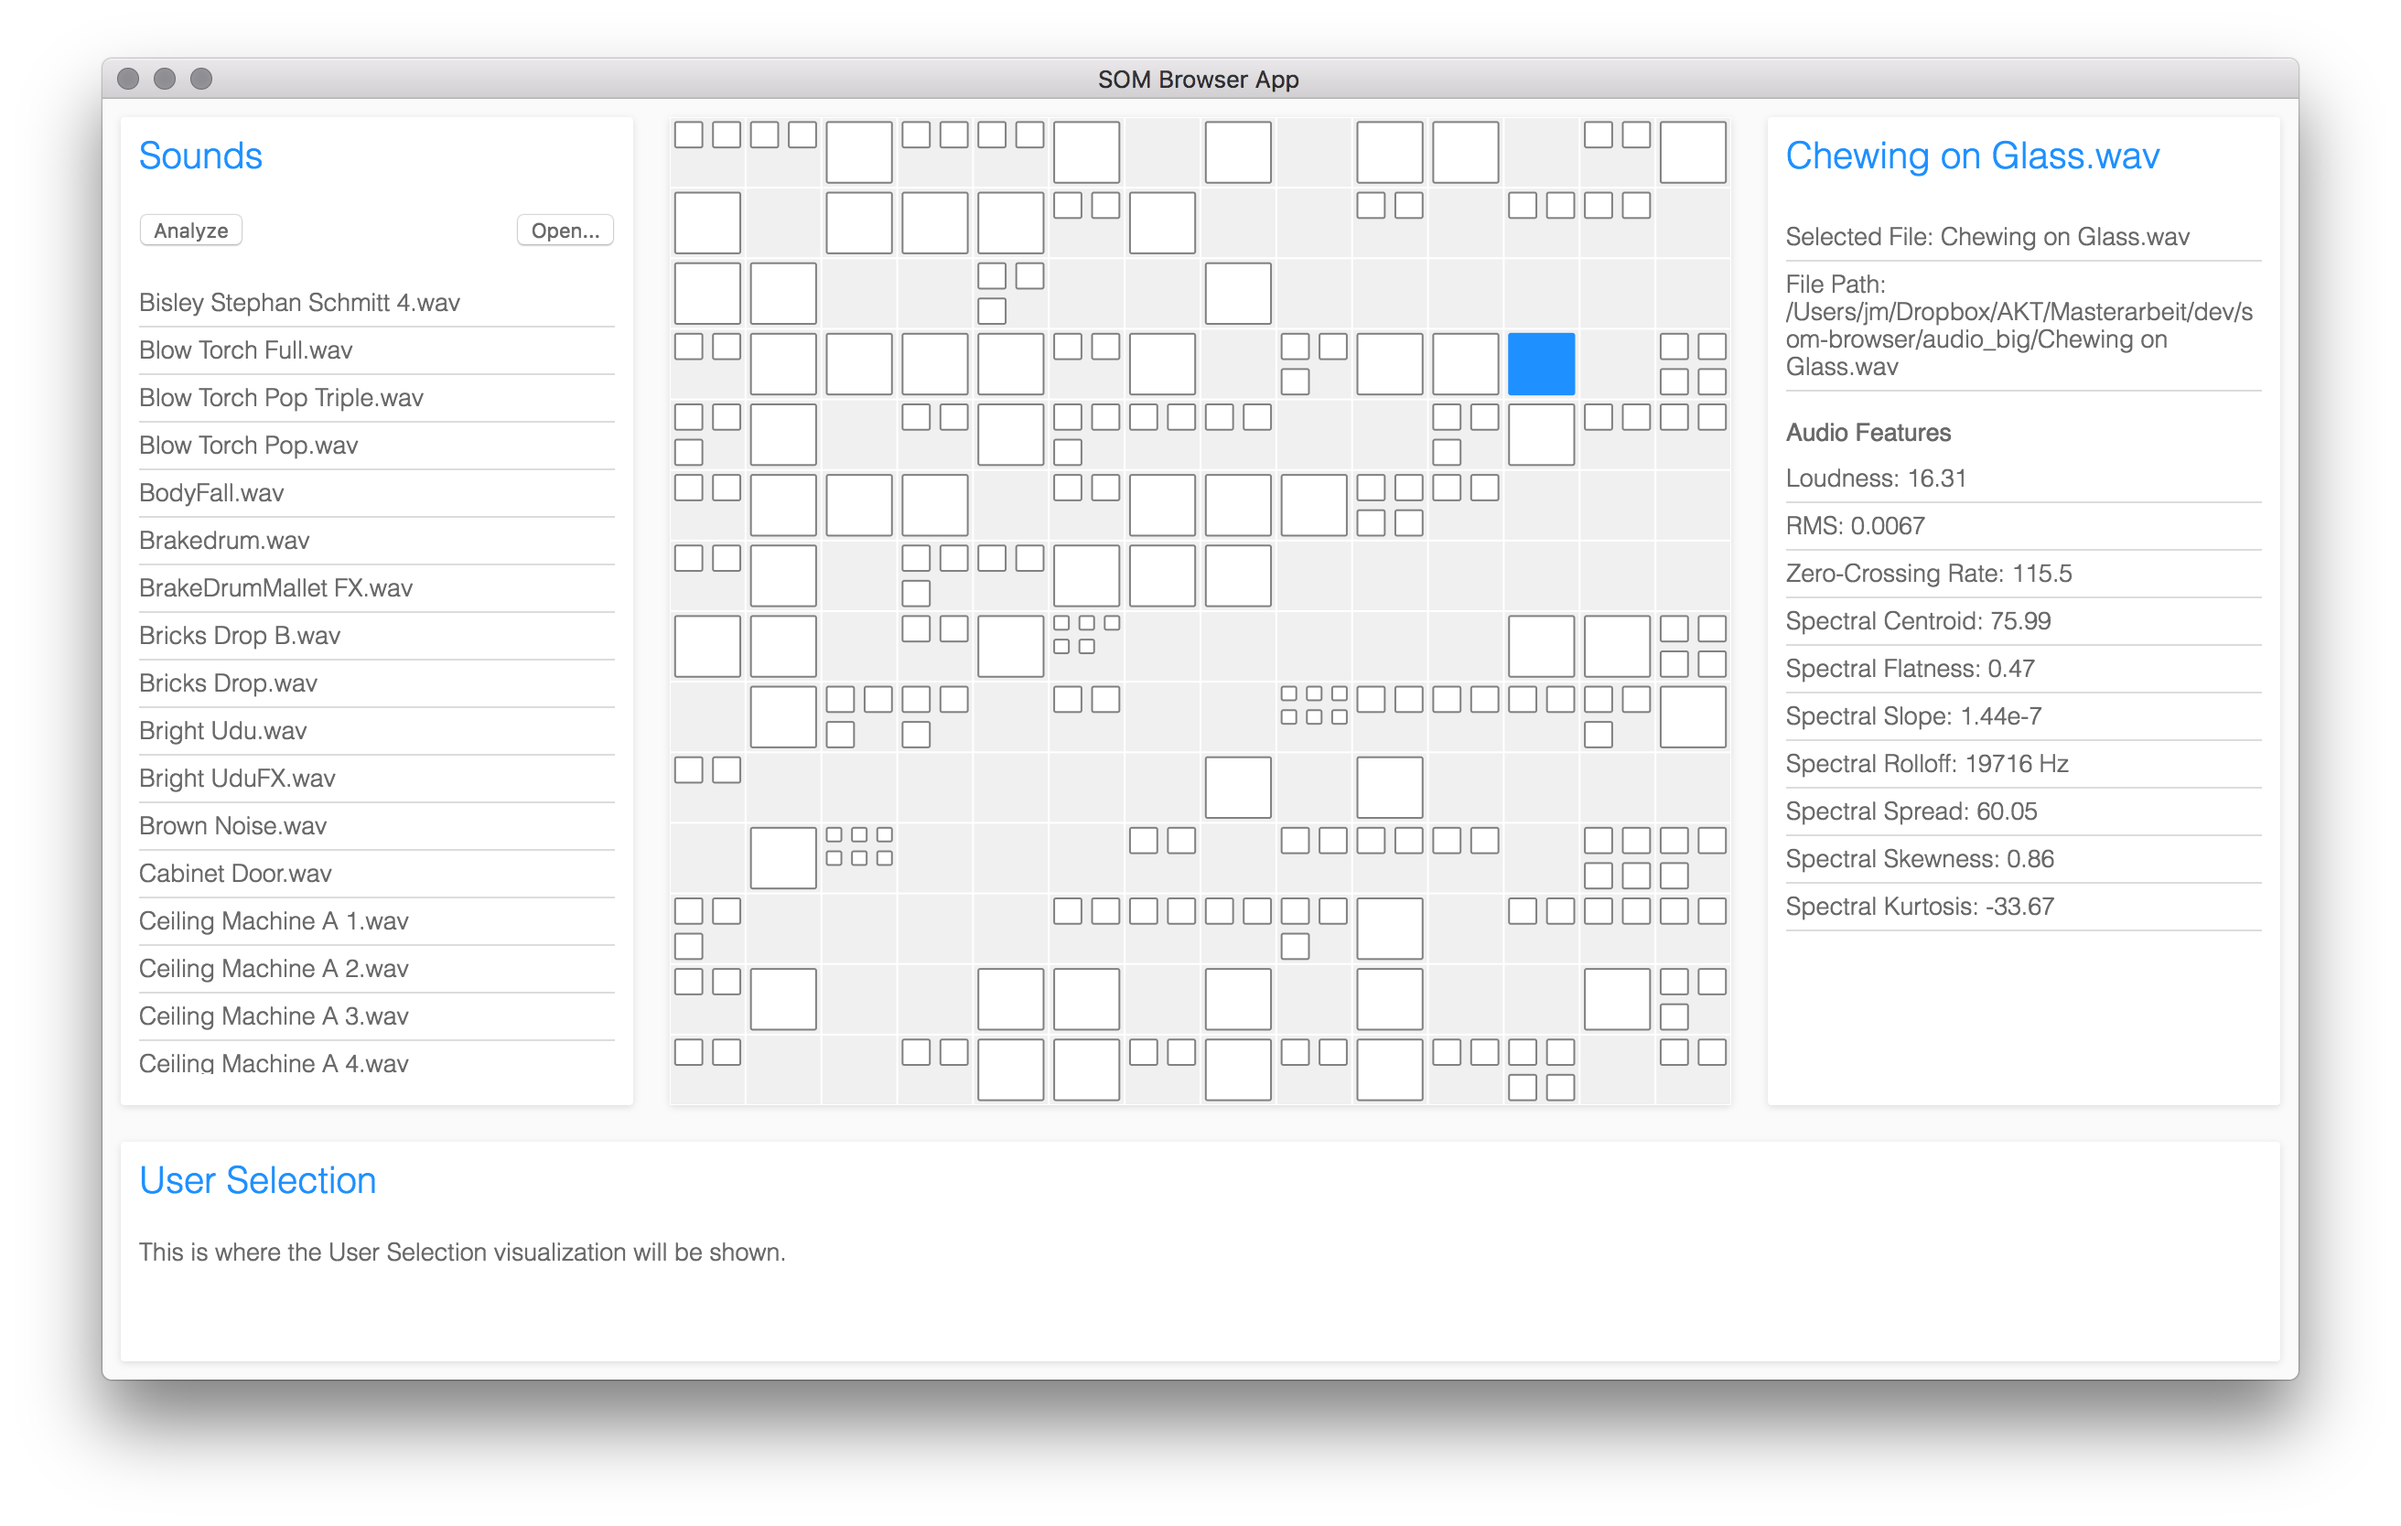
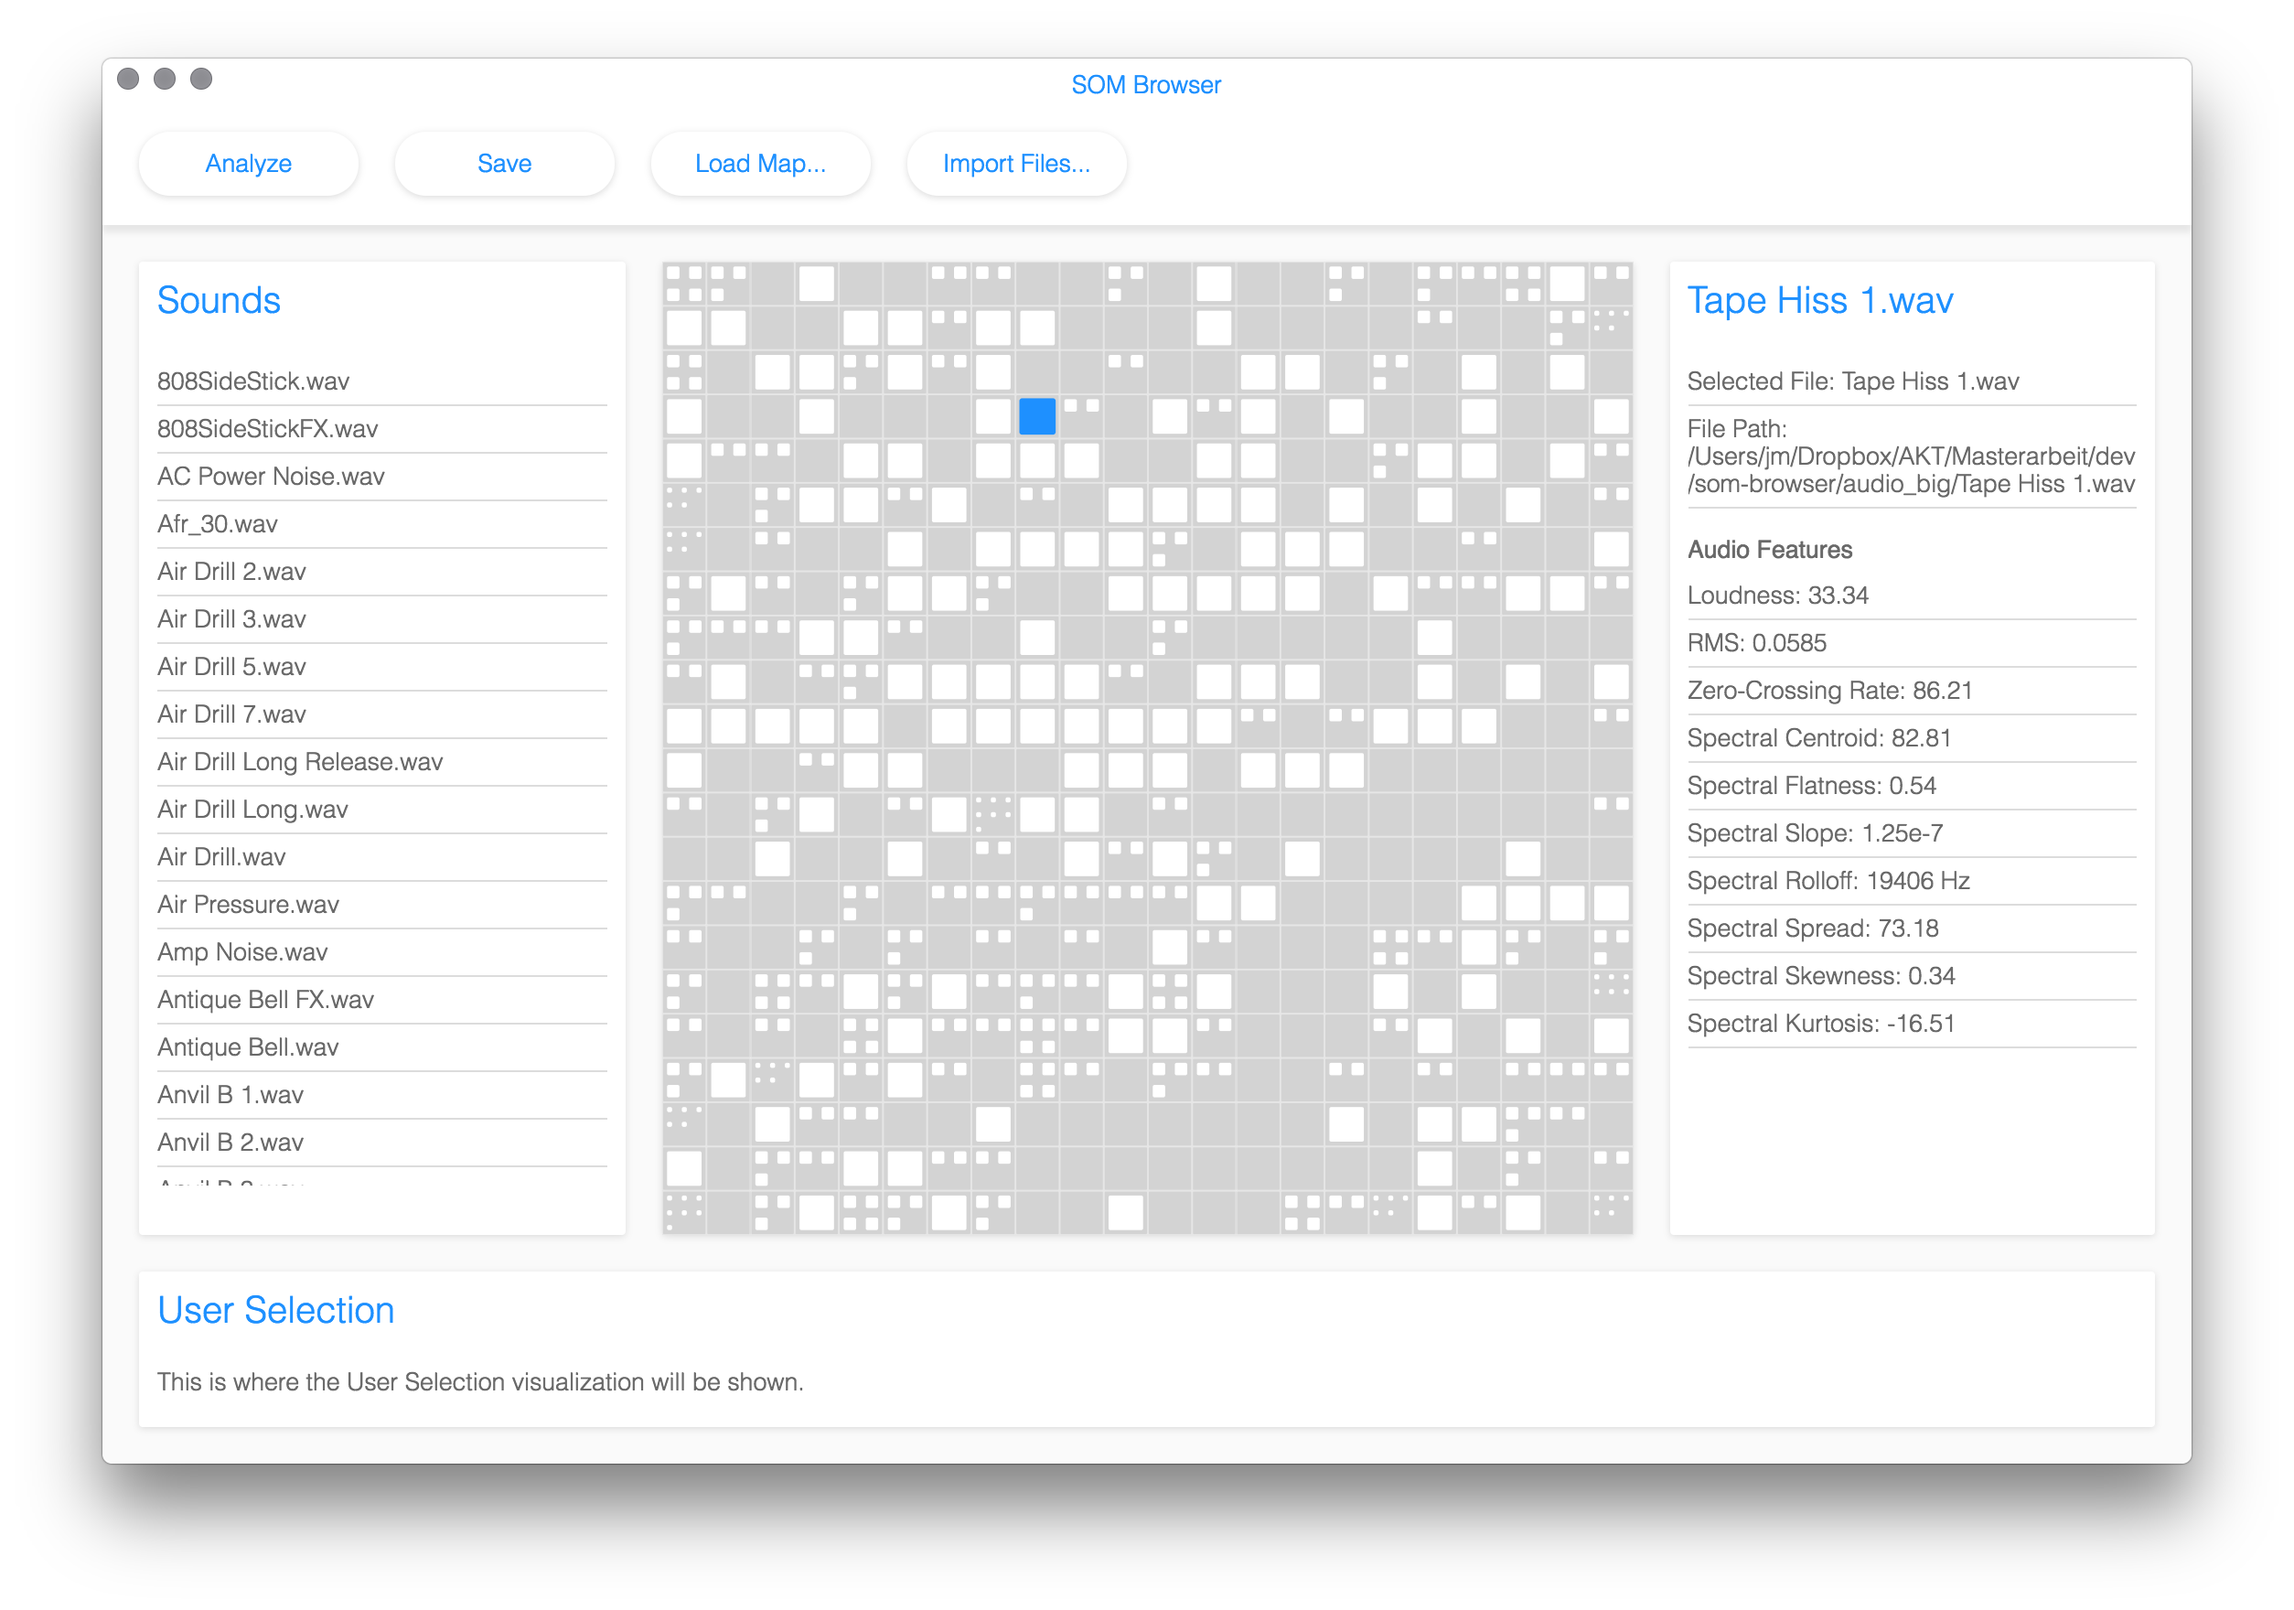
added custom title + menu bar and moved buttons there, plus style changes

diff --git a/src/assets/css/App.css b/src/assets/css/App.css
@@ -26,6 +26,36 @@ span {
   padding: 10px;
 }
 
+.TitleBar {
+  width: 100vw;
+  height: 30px;
+  display: block;
+  background-color: white;
+  display: table;
+  -webkit-app-region: drag;
+}
+
+.TitleBar p {
+  display: table-cell;
+  vertical-align: middle;
+  text-align: center;
+  color: dodgerblue;
+  font-weight: 200;
+  /* height: inherit; */
+}
+
+.MenuBar {
+  width: 100vw;
+  height: 8vh;
+  display: block;
+  background-color: white;
+  /* background-color: rgb(250, 250, 250); */
+  box-shadow: 0px 4px 4px rgb(230, 230, 230);
+  /* border-radius: 2px; */
+  margin-bottom: 10px;
+  /* -webkit-app-region: drag; */
+}
+
 .Map {
   /* border-style: solid;
   border-width: 3px;
@@ -35,8 +65,8 @@ span {
   box-shadow: 0px 1px 5px rgb(220, 220, 220);
   border-radius: 2px;
   margin: 10px;
-  width: calc(50vw - 20px);
-  height: calc(80vh - 20px);
+  width: calc(50vw - 40px);
+  height: calc(77vh - 60px);
   float: left;
 }
 
@@ -96,8 +126,9 @@ span {
   box-shadow: 0px 1px 5px rgb(220, 220, 220);
   border-radius: 2px;
   margin: 10px;
+  margin-left: 20px;
   width: calc(25vw - 20px);
-  height: calc(80vh - 20px);
+  height: calc(77vh - 60px);
   float: left;
   white-space: nowrap;
 }
@@ -116,12 +147,34 @@ span {
 
 .ActionButtons {
   padding: 10px;
+  padding-left: 20px;
   /* padding-bottom: 0px; */
+}
+
+.ActionButtons * {
+  width: 120px;
+  margin-right: 20px;
+  padding: 10px 0 10px 0;
+  cursor: pointer;
+  border-radius: 50vh;
+  /* border: 1px solid dimgrey; */
+  border: none;
+  color: dodgerblue;
+  /* background-color: rgb(250, 250, 250); */
+  background-color: white;
+  box-shadow: 0px 1px 5px rgb(220, 220, 220);
+  outline: none;
+  transition: box-shadow 0.2s ease-out;
+}
+
+.ActionButtons *:hover {
+  box-shadow: 0px 1px 5px dodgerblue;
+  transition: box-shadow 0.2s ease-in;
 }
 
 .FileList {
   overflow: scroll;
-  height: 80%;
+  height: 85%;
   /* border: 1px solid black; */
 }
 
@@ -150,10 +203,10 @@ span {
 }
 
 .OpenFile {
-  float: right;
+  /* float: right; */
   /* background-color: white; */
   /* border: none; */
-  cursor: pointer;
+  /* cursor: pointer; */
 }
 
 .FileInfo {
@@ -162,9 +215,10 @@ span {
   box-shadow: 0px 1px 5px rgb(220, 220, 220);
   border-radius: 2px;
   margin: 10px;
+  margin-right: 20px;
   width: calc(25vw - 20px);
-  height: calc(80vh - 20px);
-  float: left;
+  height: calc(77vh - 60px);
+  float: right;
   /* white-space: nowrap; */
 }
 
@@ -208,9 +262,10 @@ span {
   background-color: white;
   box-shadow: 0px 1px 5px rgb(220, 220, 220);
   border-radius: 2px;
-  margin: 10px;
-  width: calc(100vw - 20px);
-  height: calc(20vh - 20px);
+  margin: 20px;
+  margin-top: 10px;
+  width: calc(100vw - 40px);
+  height: calc(15vh - 30px);
   /* height: 4vw; */
   position: fixed;
   left: 0;

diff --git a/src/components/MenuBar.js b/src/components/MenuBar.js
@@ -3,31 +3,7 @@ import React, { Component } from 'react';
 const {dialog} = require('electron').remote;
 const path = require('path');
 
-class FileListItem extends React.Component {
-  constructor(props) {
-    super(props)
-    this.handleClick = this.handleClick.bind(this)
-  }
-
-  handleClick(file) {
-    this.props.onFileClick(file)
-  }
-
-  render() {
-    const file = this.props.file
-
-    return (
-      <li
-        id={this.props.selected ? "FileListSelectedFile" : undefined}
-        className="FileListItem"
-        onClick={this.handleClick.bind(this, file)}>
-        {file.name}
-      </li>
-    )
-    }
-}
-
-class FileList extends React.Component {
+class MenuBar extends React.Component {
   constructor(props) {
     super(props)
     this.handleClick = this.handleClick.bind(this)
@@ -71,31 +47,24 @@ class FileList extends React.Component {
   }
 
   render() {
-    const files = this.props.files;
-    const fileListItems = [];
-    const selectedFile = this.props.selectedFile && this.props.selectedFile.path
-
-    if (files) {
-      files.forEach(file => fileListItems.push(
-        <FileListItem
-          key={file.path}
-          file={file}
-          selected={file.path === selectedFile}
-          onFileClick={this.props.onFileClick}/>
-      ))
-    }
 
     return (
-      <div className="FileListContainer">
-        <h3>
-          Sounds
-        </h3>
-        <ul className="FileList">
-          { files ? fileListItems : <p>No audio files loaded.</p> }
-        </ul>
+      <div className="MenuBar">
+        <div className="ActionButtons">
+          <input className="AnalyzeSounds" type="button" value="Analyze"
+            disabled={this.props.loading}
+            onClick={this.handleAnalyzeClick}/>
+          {this.props.loading && <span>Loading...</span>}
+          <input className="SaveState" type="button" value="Save"
+            onClick={this.handleSave}/>
+          <input className="LoadState" type="button" value="Load Map..."
+            onClick={this.handleLoad}/>
+          <input className="OpenFile" type="button" value="Import Files..."
+            onClick={this.handleClick}/>
+        </div>
       </div>
     );
   }
 }
 
-export default FileList;
+export default MenuBar;

diff --git a/src/components/App.js b/src/components/App.js
@@ -1,6 +1,7 @@
 import '../assets/css/App.css';
 import React, { Component } from 'react';
-import { hot } from 'react-hot-loader'
+import { hot } from 'react-hot-loader';
+import MenuBar from './MenuBar';
 import Map from './Map';
 import FileList from './FileList';
 import FileInfo from './FileInfo';
@@ -8,8 +9,8 @@ import UserSelection from './UserSelection';
 const { ipcRenderer, remote } = require('electron');
 const { app, BrowserWindow, dialog } = remote;
 const fs = require('fs');
-const url = require('url')
-const path = require('path')
+const url = require('url');
+const path = require('path');
 
 let dev = false
 
@@ -205,7 +206,7 @@ class App extends React.Component {
       loadedData.som ?
       this.setState(loadedData)
       :
-      alert("This doesn't appear to be a valid file. Please try again")
+      alert("The loaded file doesn't appear to be valid. Please try again.")
     })
   }
 
@@ -218,6 +219,19 @@ class App extends React.Component {
 
     return (
       <div>
+
+        <div className="TitleBar">
+          <p>SOM Browser</p>
+        </div>
+
+        <MenuBar
+          files={files}
+          onChange={this.handleFileListChange}
+          onFileClick={this.handleFileClick}
+          onAnalyzeClick={this.handleAnalyzeClick}
+          onSaveClick={this.handleSaveClick}
+          onLoadClick={this.handleLoadClick}
+          />
 
         <FileList
           loading={this.state.loading}

diff --git a/main.js b/main.js
@@ -24,11 +24,12 @@ if ( process.defaultApp || /[\\/]electron-prebuilt[\\/]/.test(process.execPath) 
 function createMainWindow() {
   // Create the browser window.
   const win = new BrowserWindow({
-    width: 1200,
-    height: 722,
-    minWidth: 1200,
-    minHeight: 722,
-    show: false
+    width: 1142,
+    height: 768,
+    minWidth: 1142,
+    minHeight: 768,
+    show: false,
+    titleBarStyle: 'hidden'
   });
 
   // and load the index.html of the app.
